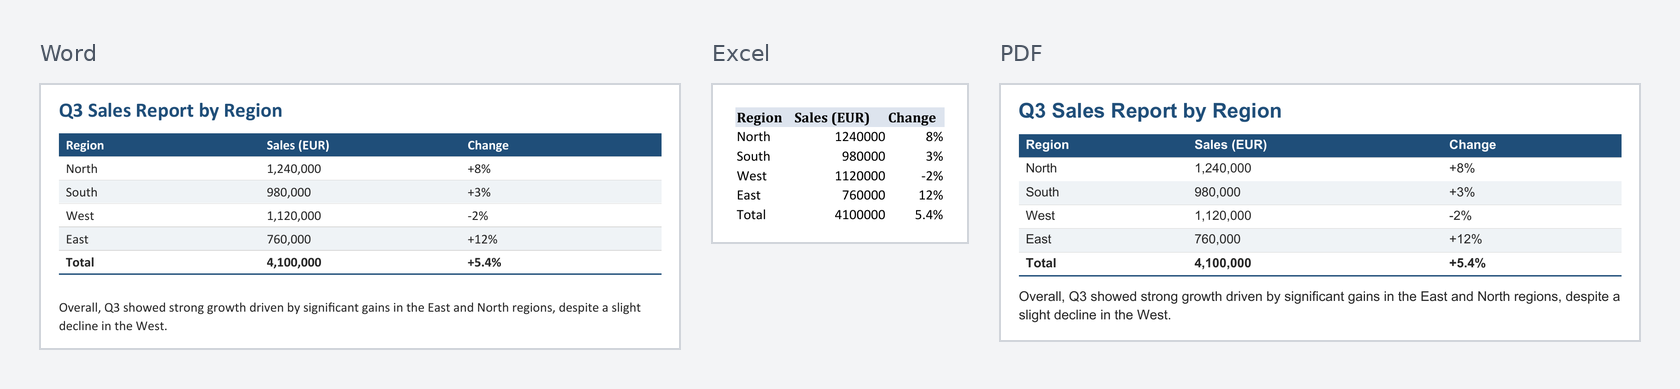
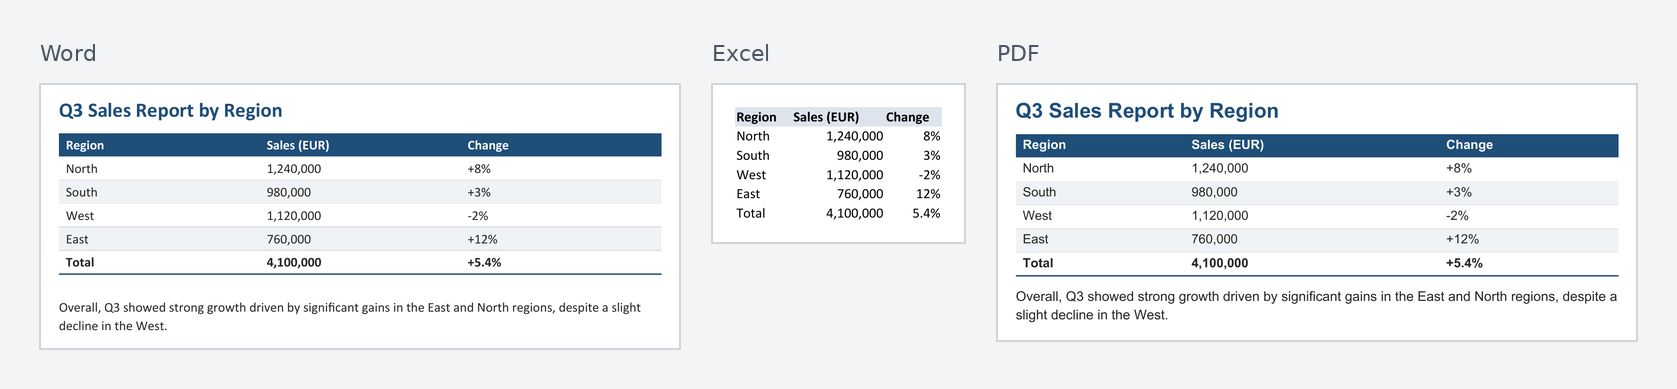
Response Export 1.2.1: Excel uses the font valve and keeps thousands separators
- All Excel cells use the font valve; the header row had no font name.
- Numbers written with thousands separators are shown with them; years
  and postcodes without separators stay as they are.
- Context Guard README: Open WebUI 0.12 sends its built-in tools with every
  chat (4,000 to 7,000 tokens, measured for Qwen3.8, Gemma 4 and gpt-oss).

diff --git a/response-export/response_export.py b/response-export/response_export.py
@@ -2,7 +2,7 @@
 title: Response Export
 author: tovren
 author_url: https://github.com/tovren/open-webui-plugins
-version: 1.2.0
+version: 1.2.1
 license: MIT
 required_open_webui_version: 0.11.4
 description: Adds four buttons below every assistant message - export as Word (.docx), export its tables as Excel (.xlsx), download as PDF, and open as an e-mail draft. Files are built in memory and handed straight to the browser; nothing is stored on the server.
@@ -1058,14 +1058,17 @@ def parse_number(text: str) -> tuple[str | int | float, str | None]:
         return number / 100, "0%" if float(number).is_integer() else "0.0#%"
     if unit:
         return float(number), CURRENCY_FORMATS[unit]
+    if match["group"]:  # written with thousands separators: Excel shows them too (but not in years or postcodes)
+        return number, "#,##0" + ("." + "0" * len(fraction) if fraction else "")
     return number, None
 
 
-def tables_to_xlsx(tables: list[Table], sheet_name: str) -> bytes:
+def tables_to_xlsx(tables: list[Table], sheet_name: str, font: str = BODY_FONT) -> bytes:
     """One worksheet per table; `sheet_name` is a format string with an {n} placeholder."""
     workbook = Workbook()
     workbook.remove(workbook.active)
     header_fill = PatternFill("solid", fgColor=HEADER_FILL)
+    body_font, header_font = Font(name=font), Font(name=font, bold=True)  # a font without a name looks different
     for n, table in enumerate(tables, start=1):
         sheet = workbook.create_sheet(title=sheet_name.format(n=n))
         widths = [0] * len(table.aligns)
@@ -1080,8 +1083,8 @@ def tables_to_xlsx(tables: list[Table], sheet_name: str) -> bytes:
                     cell.number_format = number_format
                 if "\n" in text:
                     cell.alignment = Alignment(wrap_text=True, vertical="top")
+                cell.font = header_font if row_index == 1 else body_font
                 if row_index == 1:
-                    cell.font = Font(bold=True)
                     cell.fill = header_fill
                 widths[column - 1] = max(widths[column - 1], *(len(line) for line in text.split("\n")))
         for column, width in enumerate(widths, start=1):
@@ -2025,9 +2028,9 @@ class Action:
         )
         font: str = Field(
             default=BODY_FONT,
-            description="Font of Word documents, e.g. Calibri, Arial or Aptos. It has to be installed where "
-            "the files are opened; otherwise Office shows a similar one. PDF files always use the standard "
-            "PDF fonts Helvetica and Courier.",
+            description="Font of Word documents and Excel sheets, e.g. Calibri, Arial or Aptos. It has to be "
+            "installed where the files are opened; otherwise Office shows a similar one. PDF files always use "
+            "the standard PDF fonts Helvetica and Courier.",
         )
         word_template: str = Field(
             default="",
@@ -2111,7 +2114,7 @@ class Action:
         if not tables:
             await export.browser.notify("warning", export.texts["no_tables"])
             return
-        data = await asyncio.to_thread(tables_to_xlsx, tables, export.texts["sheet_name"])
+        data = await asyncio.to_thread(tables_to_xlsx, tables, export.texts["sheet_name"], self.valves.font)
         await export.browser.download(data, f"{self._file_stem(blocks, export)}.xlsx", XLSX_MIME)
 
     async def _export_pdf(self, content: str, export: Export) -> None:

diff --git a/tests/test_plugins.py b/tests/test_plugins.py
@@ -292,17 +292,19 @@ def test_docx_list_starting_number_is_kept() -> None:
     ("text", "value", "number_format"),
     [
         ("42", 42, None),
+        ("2026", 2026, None),  # a year or postcode keeps its digits as written
+        ("70173", 70173, None),
         ("-17", -17, None),
         ("1,5", 1.5, None),
         ("0,5", 0.5, None),
         ("3.14159", 3.14159, None),
-        ("2.000", 2000, None),
-        ("1.234.567", 1234567, None),
-        ("1.234,56", 1234.56, None),
-        ("1,234.56", 1234.56, None),
-        ("1 234,5", 1234.5, None),
-        ("1 000", 1000, None),
-        ("1'000'000", 1000000, None),
+        ("2.000", 2000, "#,##0"),
+        ("1.234.567", 1234567, "#,##0"),
+        ("1.234,56", 1234.56, "#,##0.00"),
+        ("1,234.56", 1234.56, "#,##0.00"),
+        ("1 234,5", 1234.5, "#,##0.0"),
+        ("1 000", 1000, "#,##0"),
+        ("1'000'000", 1000000, "#,##0"),
         ("−5", -5, None),
         ("12%", 0.12, "0%"),
         ("-3,2 %", -0.032, "0.0#%"),
@@ -322,9 +324,9 @@ def test_docx_list_starting_number_is_kept() -> None:
         ("+1 234", "+1 234", None),
         ("+41\u00a079 123 456", "+41\u00a079 123 456", None),
         ("+5", 5, None),
-        ("+1.234,56", 1234.56, None),
+        ("+1.234,56", 1234.56, "#,##0.00"),
         ("+1 000 €", 1000.0, '#,##0.00 "€"'),
-        ("1 234", 1234, None),
+        ("1 234", 1234, "#,##0"),
         ("CHF 1'234.50", 1234.5, '"CHF" #,##0.00'),
         ("1’234.50 CHF", 1234.5, '"CHF" #,##0.00'),  # Swiss thousands separator U+2019
         ("CHF -12", -12.0, '"CHF" #,##0.00'),
@@ -353,6 +355,7 @@ def test_xlsx_values_and_formats() -> None:
     sheet = workbook["Table 1"]
     assert [c.value for c in sheet[1]] == ["Item", "Amount", "Share"]
     assert all(c.font.bold and c.fill.fgColor.rgb.endswith("DDE4EE") for c in sheet[1])
+    assert {c.font.name for row in sheet.iter_rows() for c in row} == {"Calibri"}
     assert sheet.freeze_panes == "A2"
     assert sheet.auto_filter.ref == "A1:C4"
     assert sheet["A2"].value == "A | B"

diff --git a/response-export/README.md b/response-export/README.md
@@ -5,7 +5,7 @@ An Open WebUI **action** that adds four buttons below every assistant message:
 | Button | Result |
 |---|---|
 | **Word (.docx)** | Word document with headings, bullet and numbered lists (one nesting level, numbering restarts for each list), tables with a header row in the accent colour, bold/italic/strikethrough/inline code, clickable links, code blocks, quotes and horizontal rules. Same design as the Word files of Office Documents (`accent_color`, `font`), optionally on a company template such as a letterhead (`word_template`) |
-| **Excel (.xlsx)** | One worksheet per Markdown table. The header row is bold, shaded and frozen, with an auto filter and fitted column widths. Numbers become real numbers, including German and Swiss formats (`1.234,56`, `12,5 %`, `1.234,56 €`, `CHF 1'234.50`), `$`/`£` amounts and the codes `EUR`, `USD`, `GBP` and `CHF`. Phone numbers such as `+49 711 123456` stay text |
+| **Excel (.xlsx)** | One worksheet per Markdown table. The header row is bold, shaded and frozen, with an auto filter and fitted column widths. Numbers become real numbers, including German and Swiss formats (`1.234,56`, `12,5 %`, `1.234,56 €`, `CHF 1'234.50`), `$`/`£` amounts and the codes `EUR`, `USD`, `GBP` and `CHF`. Phone numbers such as `+49 711 123456` stay text. Numbers written with thousands separators keep them in Excel; years and postcodes without separators stay as they are. All cells use the `font` valve |
 | **PDF** | PDF file with the content and design of the Word file (`accent_color`): headings, lists, quotes, code blocks, tables whose header row is repeated on every page (number columns right-aligned), clickable links, page numbers and an optional small note in the footer. A4 for German, Letter for English. It is downloaded like the Word file; to print, open it and print it from the PDF viewer |
 | **E-Mail** | Opens the default mail program through a `mailto:` link. A `Subject:`/`Betreff:` line becomes the subject, and any preamble before it ("Here is a draft:") is dropped. If the answer is too long for a `mailto:` link, an `.eml` draft with plain-text and HTML parts is downloaded instead. Outlook opens it as a new, editable message |
 
@@ -35,7 +35,7 @@ enable it globally or per model, see [Installation](../README.md#installation).
 | `always_eml` | `false` | Always download a formatted `.eml` draft instead of a plain-text `mailto:` link |
 | `print_footer` | `true` | Add the note "Created with the AI assistant on …" to the footer of PDF pages. The page number is always there |
 | `accent_color` | `1F4E79` | Accent colour of Word and PDF files (headings, table header rows, links), as a hex value without `#` |
-| `font` | `Calibri` | Font of Word documents, e.g. a company font such as `Arial` or `Aptos`. It has to be installed where the files are opened; otherwise Office shows a similar one. PDF files always use Helvetica and Courier |
+| `font` | `Calibri` | Font of Word documents and Excel sheets, e.g. a company font such as `Arial` or `Aptos`. It has to be installed where the files are opened; otherwise Office shows a similar one. PDF files always use Helvetica and Courier |
 | `word_template` | _(empty)_ | Path of a Word file (`.docx` or `.dotx`) on the Open WebUI server, e.g. a letterhead: Word documents get its header, footer, page size and margins. Not used for PDF files |
 
 `accent_color`, `font` and `word_template` have the same names and meaning as in

diff --git a/context-guard/README.md b/context-guard/README.md
@@ -54,6 +54,28 @@ enable it globally or per model, see [Installation](../README.md#installation). 
 If `answer_reserve_tokens` is not smaller than the context size, the check is skipped and a
 warning is logged, so a misconfiguration never blocks every chat.
 
+## Built-in tools of Open WebUI 0.12
+
+From 0.12 on, Open WebUI sends the definitions of its built-in tools (knowledge, memories, notes,
+chats, skills, automations, calendar …) with every chat that is started in the browser: 39 tools
+with about 27,000 characters of JSON in 0.12.0. How many tokens that is depends on the model and its
+chat template. Measured with the same request:
+
+| Model | Tokens of the built-in tools | Guard's estimate (`chars_per_token` 3.5) |
+|---|---|---|
+| Qwen3.8 27B | 7,109 | 7,793 (+10 %) |
+| Gemma 4 26B-A4B | 6,216 | 7,793 (+25 %) |
+| gpt-oss-20b | 4,207 | 7,793 (+85 %) |
+
+So about 4,000 to 7,000 tokens of the context are taken before the user has typed anything, and a
+model with an 8k context hardly has room for a chat. The guard counts these tokens on purpose: they
+take up the model's context like any other text. Its estimate is close for Qwen and on the cautious
+side for models whose tokenizer or chat template is more compact.
+
+If a model does not need the built-in tools, switch them off in **Workspace → Models → (model) →
+Capabilities → Builtin Tools**, or set the model's function calling to `legacy`. The individual
+groups (knowledge, memory, notes …) can also be switched off there.
+
 ## With Context Compaction
 
 Open WebUI's built-in [Context Compaction](https://docs.openwebui.com/troubleshooting/context-window/)

diff --git a/CHANGELOG.md b/CHANGELOG.md
@@ -4,7 +4,7 @@ Each plugin has its own version (in the header of its file). Earlier changes are
 
 ## Unreleased
 
-Context Guard 1.3.0. The other plugins are unchanged.
+Context Guard 1.3.0 · Response Export 1.2.1. The other plugins are unchanged.
 
 ### Context Guard 1.3.0
 
@@ -20,6 +20,15 @@ Context Guard 1.3.0. The other plugins are unchanged.
   messages short, and logs a warning once per chat.
 - New integration tests with a real Open WebUI (`tests/integration/`), checked with 0.11.4, 0.12.0
   and 0.12.1.
+- README: Open WebUI 0.12 sends its built-in tools with every chat, about 4,000 to 7,000 tokens
+  depending on the model (measured for Qwen3.8, Gemma 4 and gpt-oss), and how to switch them off.
+
+### Response Export 1.2.1
+
+- Excel: all cells use the `font` valve. The header row had no font name, so LibreOffice showed it in
+  a different font.
+- Excel: numbers written with thousands separators (`1,240,000`, `1.234,56`) are shown with
+  separators. Numbers without them, such as years and postcodes, stay as they are.
 
 ## 2026-10-21, second update
 
